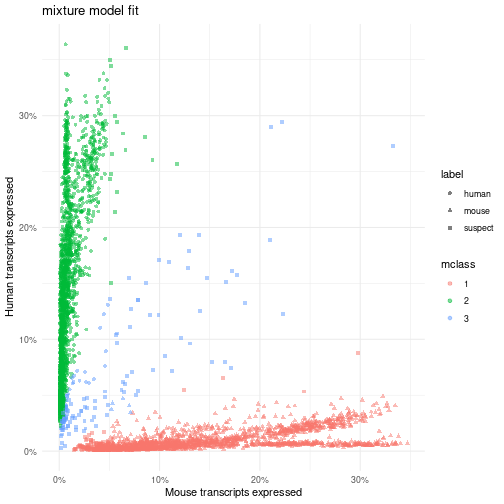
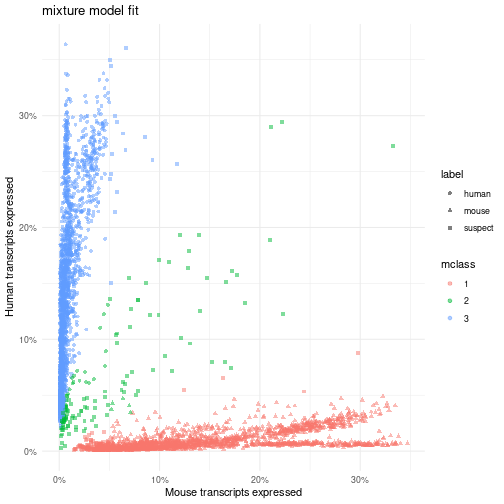
Reorganize this tome a little bit for clarity

diff --git a/vignettes/project2_chunks/project2_tim.md b/vignettes/project2_chunks/project2_tim.md
@@ -36,7 +36,7 @@ data structures kind of suck. (No, seriously, you'll find out why eventually.)
 The package is, not coincidentally, called [tidySingleCellExperiment](http://www.bioconductor.org/packages/release/bioc/vignettes/tidySingleCellExperiment/inst/doc/introduction.html):
 
 <details>
-  <summary>Click for details</summary>
+  <summary>Make sure necessary packages are installed</summary>
 
 ```r
 
@@ -55,18 +55,16 @@ if (!require("tidyverse")) {
 ```
 </details>
 
-# Tim's stab at classification and plotting 
-
-It will be difficult to evaluate our strategy if we don't first load the data:
-
 <details>
-  <summary>Click for details</summary>
+  <summary>Load necessary packages</summary>
 
 ```r
 library(SingleCellExperiment) 
 library(tidySingleCellExperiment)
 ```
 </details>
+
+It will be challenging to draw conclusions without first loading the data.
 
 
 ```r
@@ -75,6 +73,26 @@ if (!exists("tidybarnyard")) {
   tidybarnyard <- readRDS(url("https://ttriche.github.io/RDS/tidybarnyard.rds"))
 }
 ```
+
+The _[tidySingleCellExperiment](http://www.bioconductor.org/packages/release/bioc/vignettes/tidySingleCellExperiment/inst/doc/introduction.html)_ package gives
+us some tools to stay in the Tidyverse as much as possible while working with
+single-cell data. (It turns out that the underlying data makes this somewhat 
+less trivial than you might expect. Fortunately, you don't have to care.) 
+
+There is a [little annoyance in _tidySingleCellExperiment_](https://github.com/stemangiola/tidySingleCellExperiment/issues/38) that we need to side-step to move along. Just to be sure, let's fix this and make sure we don't hit it later on:
+
+
+```r
+
+# if any column in `tidybarnyard` column data is named `cell`, rename it 
+# this is currently a bug in tidySingleCellExperiment:
+# https://github.com/stemangiola/tidySingleCellExperiment/issues/38
+#
+names(colData(tidybarnyard)) <- sub("cell",                       # pattern
+                                    "barcode",                    # replacement
+                                    names(colData(tidybarnyard))) # strings 
+```
+# Tim's stab at classification and plotting 
 
 It will be useful to know that, when you use the `$` operator on a typical 
 Bioconductor object (such as a _tidySingleCellExperiment_ like ours), it assumes
@@ -98,24 +116,6 @@ feature-specific details lined up with rows, tends to stay in style. The only
 annoying feature (ha!) with this setup is that you need to explicitly tell R 
 when you want data about the rows themselves (i.e., the rowData). 
 
-The _[tidySingleCellExperiment](http://www.bioconductor.org/packages/release/bioc/vignettes/tidySingleCellExperiment/inst/doc/introduction.html)_ package gives
-us some tools to stay in the Tidyverse as much as possible while working with
-single-cell data. (It turns out that the underlying data makes this somewhat 
-less trivial than you might expect. Fortunately, you don't have to care.) 
-
-There is a [little annoyance in _tidySingleCellExperiment_](https://github.com/stemangiola/tidySingleCellExperiment/issues/38) that we need to side-step to move along. Just to be sure, let's fix this and make sure we don't hit it later on:
-
-
-```r
-
-# if any column in `tidybarnyard` column data is named `cell`, rename it 
-# this is currently a bug in tidySingleCellExperiment:
-# https://github.com/stemangiola/tidySingleCellExperiment/issues/38
-#
-names(colData(tidybarnyard)) <- sub("cell",                       # pattern
-                                    "barcode",                    # replacement
-                                    names(colData(tidybarnyard))) # strings 
-```
 
 Now, let's see how these moving parts in the figure fit together, from the
 ground up.  We will make use of the `dim` function, which provides dimensions
@@ -182,7 +182,7 @@ as_tibble(tidybarnyard) %>%           # "turn the colData into a tibble"
 
 # your cell:
 show(aCell) 
-#> [1] "Mixture2.inDrops.CTGAGCGT-AGAATGCG-CCTACTAG"
+#> [1] "Mixture2.inDrops.GTGCCCAT-AGAATGCG-CGTATCGG"
 
 # does that mean we can ask for a random gene with certain attributes?
 as_tibble(rowData(tidybarnyard)) %>%  # "turn the rowData into a tibble"
@@ -192,7 +192,7 @@ as_tibble(rowData(tidybarnyard)) %>%  # "turn the rowData into a tibble"
 
 # your gene:
 show(aGene) 
-#> [1] "mm10_ENSMUSG00000045268_mm10_Zfp691"
+#> [1] "mm10_ENSMUSG00000107705_mm10_Umad1"
 
 # how many copies of this random gene were found in this random cell? 
 counts(tidybarnyard)[aGene, aCell] 
@@ -222,7 +222,7 @@ samples <- (length(aHundredCells) * length(aHundredGenes))
 nonzero <- nnzero(counts(tidybarnyard)[aHundredGenes, aHundredCells])
 sparsity_hat <- (samples - nonzero) / samples 
 sparsity_hat # estimated sparsity
-#> [1] 0.9225
+#> [1] 0.9112
 
 # In fact, we can use this scheme to look at sampling error:
 sample_sparsity <- function(object, cells=100, genes=100) { 
@@ -585,7 +585,7 @@ mfit <- Mclust(logit(barnyardtibble[, c("fracmouse","frachuman")]),
 table(mfit$classification) # it turns out that we end up with less human cells
 #> 
 #>    1    2    3 
-#> 1941 2116  142
+#> 1941  142 2116
 barnyardtibble$mclass <- factor(mfit$classification)
 
 # plot the results
